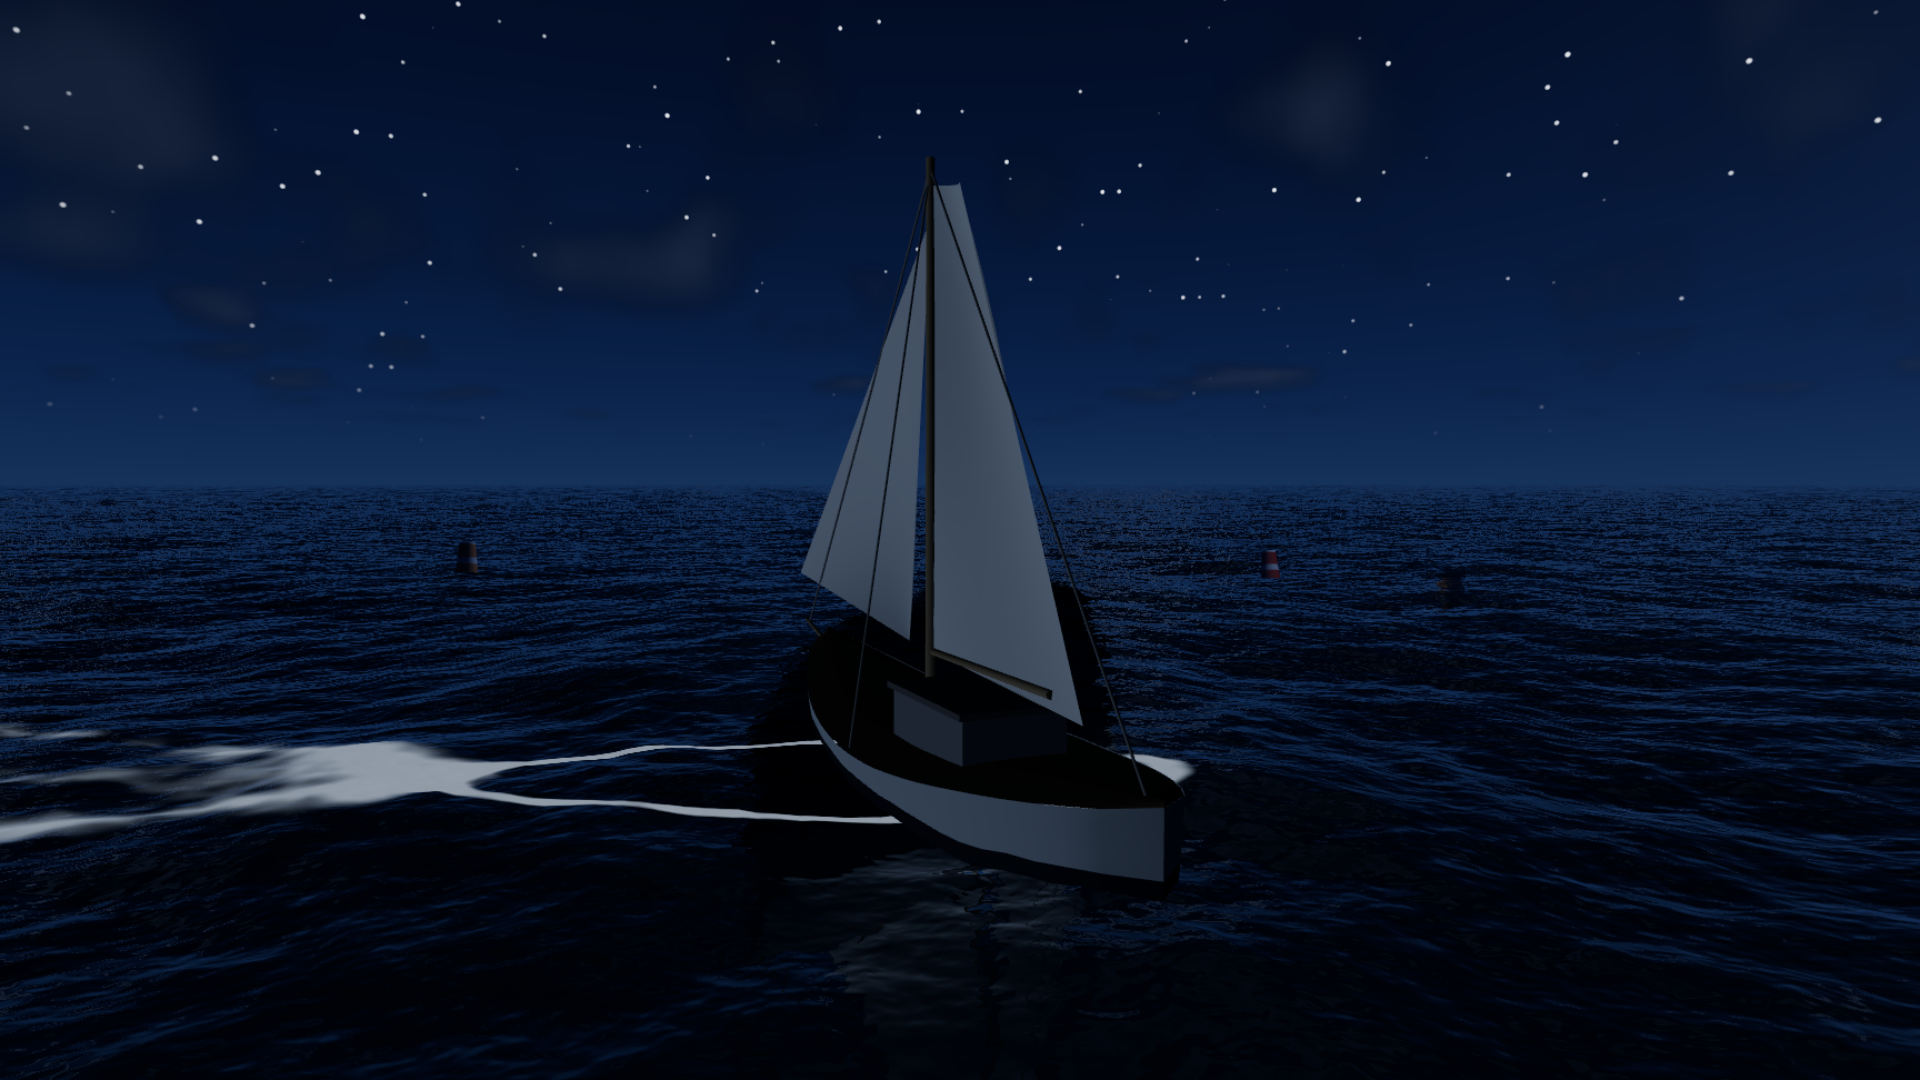
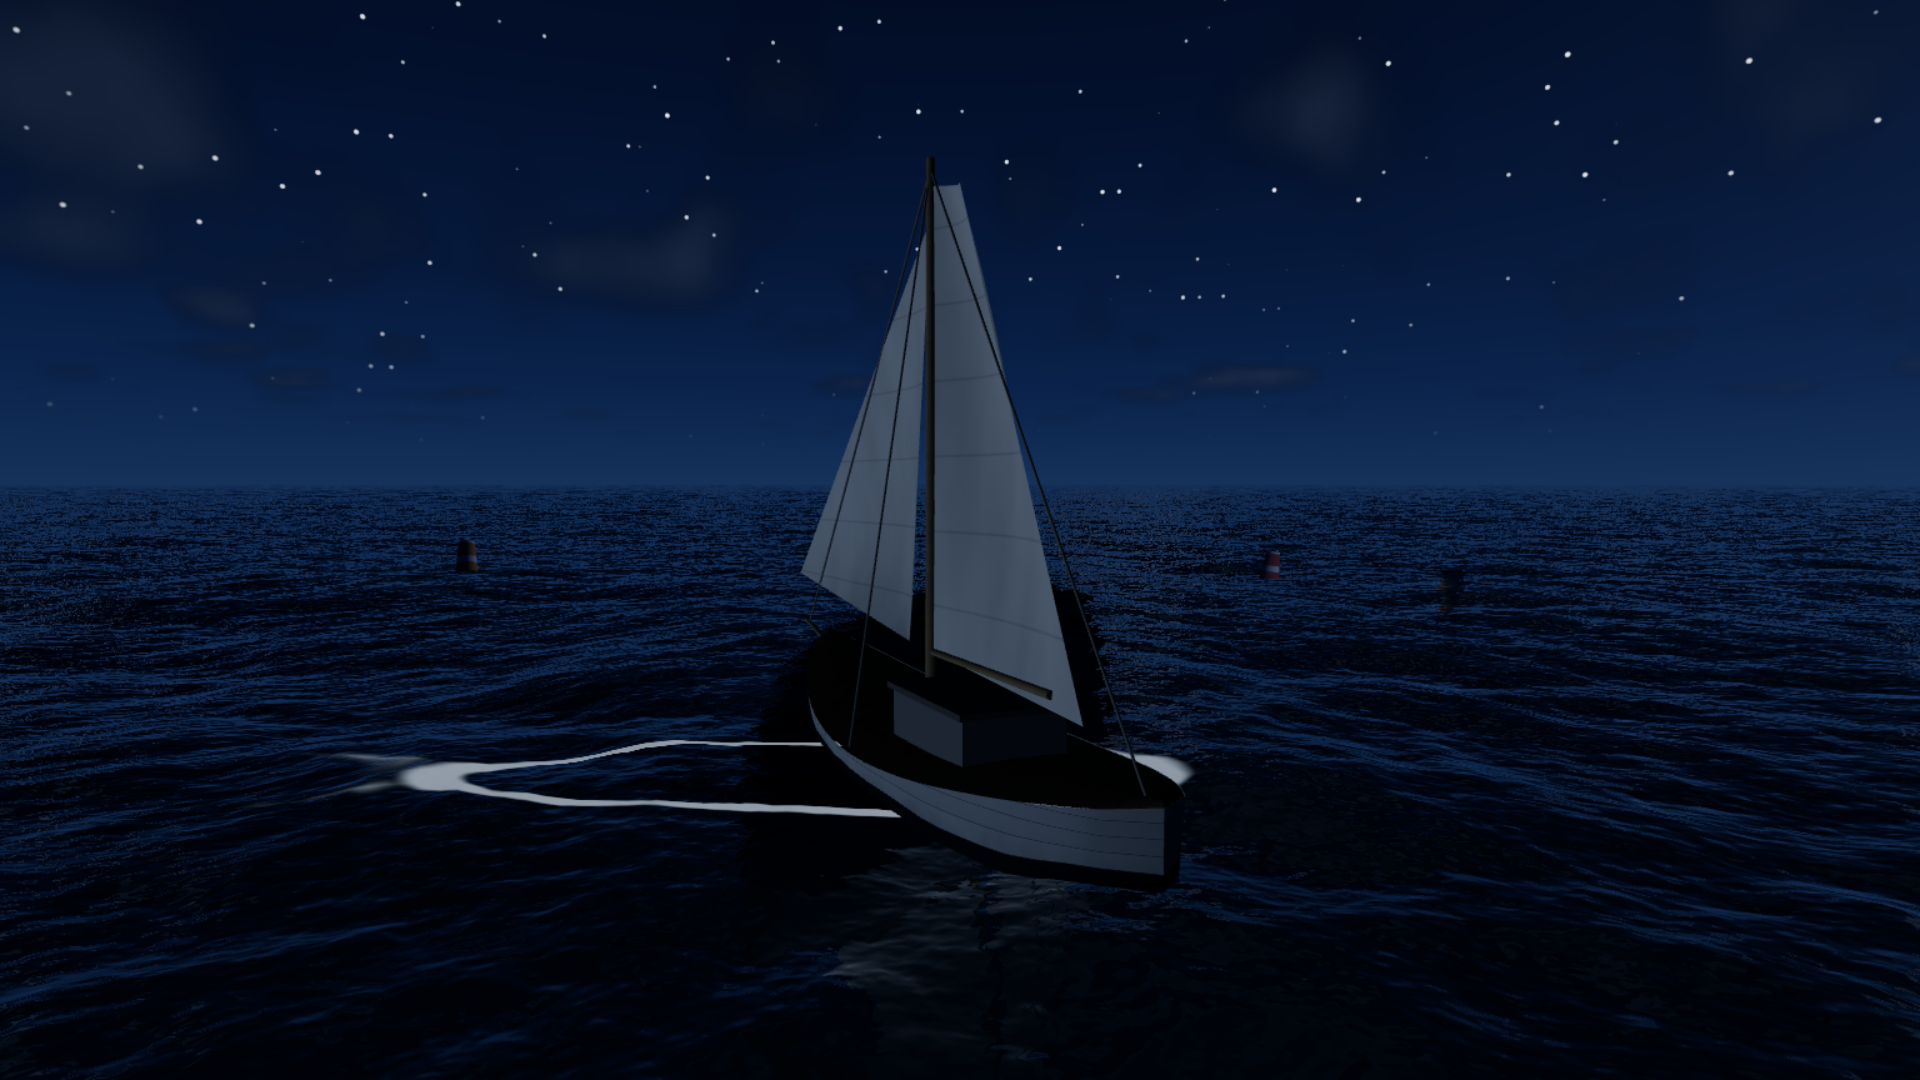
Add procedural planking, waterline grime and sail panels
Vertices now carry a part id, because the surface detail cannot be inferred
from the normal: planking runs fore-and-aft on the topsides and
athwartships on the deck, and a sail's panels run horizontally whichever
way it faces. Getting that backwards is instantly wrong to anyone who has
looked at a boat.

Hull boards are about 22 cm. A seam is a groove, so it draws as a dark line
with a lighter edge where the board above catches the light, and each board
gets its own tone — a hull of identical planks reads as extruded plastic
however good the lighting is. The waterline carries a band of staining,
which is the dirtiest part of any hull and most of what separates a working
boat from a render of one. Sails are seamed into 1.5 m panels with a slack
wrinkle field strongest near the luff. Spars get a little grain.

Also retuned the wake. The first values poured a solid white river down the
arms: the amount fed straight past the foam mask's upper threshold and
saturated, and everything above 0.70 looks identical, so the whole trail
flattened into one edgeless shape. Three knots wants about half of it.

Measured: 1920x1080 at 60 fps on every preset, underwater 57.6, 4K Ultra
59.02 ms. Console errors 0.

diff --git a/src/props/vessel.js b/src/props/vessel.js
@@ -24,8 +24,9 @@ import {
 	MeshBasicNodeMaterial,
 } from 'three/webgpu';
 import {
-	Fn, attribute, cross, dot, faceDirection, float, max, mix, normalLocal, normalize,
-	positionGeometry, saturate, smoothstep, texture, varyingProperty, vec2, vec3, vec4,
+	Fn, abs, attribute, cross, dot, faceDirection, float, floor, fract, max, min, mix,
+	mx_fractal_noise_float, normalLocal, normalize, oneMinus, positionGeometry, saturate, sin,
+	smoothstep, step, texture, varyingProperty, vec2, vec3, vec4,
 } from 'three/tsl';
 
 /* ------------------------------------------------------------------ shapes */
@@ -37,6 +38,16 @@ const DRAFT = 2.05;
 
 /** How far the finished hull is dropped so she floats on her lines. */
 const SINK = 1.35;
+
+/**
+ * Which piece of the boat a vertex belongs to.
+ *
+ * The fragment stage needs this because the surface detail is not the same
+ * everywhere and cannot be inferred from the normal: planking runs fore-and-aft
+ * on the topsides but athwartships on the deck, and a sail's panels run
+ * horizontally regardless of which way it is facing.
+ */
+const PART = { hull: 0, deck: 2, cabin: 3, spar: 4, sail: 5, wire: 6 };
 
 /** How far she may drift from the viewer before wrapping to the other side. */
 const LATTICE = 900;
@@ -86,7 +97,7 @@ class Builder {
 	}
 
 	/** @param {number[]} colour linear RGB */
-	add( geometry, colour, translucent = 0 ) {
+	add( geometry, colour, part = PART.hull ) {
 
 		const base = this.pos.length / 3;
 		const p = geometry.attributes.position.array;
@@ -97,7 +108,7 @@ class Builder {
 		for ( let i = 0; i < p.length / 3; i ++ ) {
 
 			this.col.push( colour[ 0 ], colour[ 1 ], colour[ 2 ] );
-			this.cvs.push( translucent );
+			this.cvs.push( part );
 
 		}
 
@@ -114,7 +125,7 @@ class Builder {
 		g.setAttribute( 'position', new BufferAttribute( new Float32Array( this.pos ), 3 ) );
 		g.setAttribute( 'normal', new BufferAttribute( new Float32Array( this.nrm ), 3 ) );
 		g.setAttribute( 'paint', new BufferAttribute( new Float32Array( this.col ), 3 ) );
-		g.setAttribute( 'canvas', new BufferAttribute( new Float32Array( this.cvs ), 1 ) );
+		g.setAttribute( 'part', new BufferAttribute( new Float32Array( this.cvs ), 1 ) );
 		g.setIndex( this.idx );
 		return g;
 
@@ -197,7 +208,7 @@ function buildGeometry() {
 	};
 
 	// Bottom: keel up to the boot top.
-	b.add( loft( 30, 18, ( t, v ) => section( t, ( v * 2 - 1 ) * bootAt( t ) ) ), [ 0.030, 0.048, 0.062 ] );
+	b.add( loft( 30, 18, ( t, v ) => section( t, ( v * 2 - 1 ) * bootAt( t ) ) ), [ 0.030, 0.048, 0.062 ], PART.hull );
 
 	// Topsides: the two flanks above it.
 	for ( const sign of [ - 1, 1 ] ) {
@@ -207,7 +218,7 @@ function buildGeometry() {
 			const a = bootAt( t );
 			return section( t, sign * ( a + v * ( 1 - a ) ) );
 
-		} ), [ 0.55, 0.56, 0.54 ] );
+		} ), [ 0.55, 0.56, 0.54 ], PART.hull );
 
 	}
 
@@ -222,33 +233,33 @@ function buildGeometry() {
 			zAt( t ),
 		];
 
-	} ), [ 0.30, 0.21, 0.125 ] );
+	} ), [ 0.30, 0.21, 0.125 ], PART.deck );
 
 	// --- cabin
 	const cabin = new BoxGeometry( 2.05, 0.95, 3.2 );
 	cabin.translate( 0, sheer( 0.42 ) + 0.52, - 1.1 );
-	b.add( cabin, [ 0.30, 0.30, 0.29 ] );
+	b.add( cabin, [ 0.30, 0.30, 0.29 ], PART.cabin );
 
 	const roof = new BoxGeometry( 2.25, 0.12, 3.4 );
 	roof.translate( 0, sheer( 0.42 ) + 1.04, - 1.1 );
-	b.add( roof, [ 0.20, 0.19, 0.185 ] );
+	b.add( roof, [ 0.20, 0.19, 0.185 ], PART.cabin );
 
 	// --- mast, boom, bowsprit
 	const deckY = sheer( 0.56 ) + 0.11;
 
 	const mast = new CylinderGeometry( 0.085, 0.13, 11.4, 10 );
 	mast.translate( 0, deckY + 5.7, 1.0 );
-	b.add( mast, [ 0.42, 0.32, 0.20 ] );
+	b.add( mast, [ 0.42, 0.32, 0.20 ], PART.spar );
 
 	const boom = new CylinderGeometry( 0.075, 0.085, 5.0, 8 );
 	boom.rotateX( Math.PI / 2 );
 	boom.translate( 0, deckY + 1.45, - 1.4 );
-	b.add( boom, [ 0.42, 0.32, 0.20 ] );
+	b.add( boom, [ 0.42, 0.32, 0.20 ], PART.spar );
 
 	const sprit = new CylinderGeometry( 0.05, 0.075, 2.8, 8 );
 	sprit.rotateX( Math.PI / 2.32 );
 	sprit.translate( 0, sheer( 0.985 ) - 0.15, LENGTH_FWD + 0.55 );
-	b.add( sprit, [ 0.42, 0.32, 0.20 ] );
+	b.add( sprit, [ 0.42, 0.32, 0.20 ], PART.spar );
 
 	// --- standing rigging. Four wires, each a hair over a centimetre thick.
 	//     They cost almost nothing and they are most of what separates a mast
@@ -274,10 +285,10 @@ function buildGeometry() {
 
 	const WIRE = [ 0.34, 0.33, 0.30 ];
 
-	b.add( strut( masthead, [ 0, sheer( 0.985 ) + 0.15, LENGTH_FWD + 1.6 ], 0.028 ), WIRE );   // forestay
-	b.add( strut( masthead, [ 0, sheer( 0.02 ) + 0.05, - LENGTH_AFT + 0.4 ], 0.026 ), WIRE );  // backstay
-	b.add( strut( masthead, [ halfBeam( 0.5 ) * 0.94, sheer( 0.5 ), 0.2 ], 0.024 ), WIRE );    // shrouds
-	b.add( strut( masthead, [ - halfBeam( 0.5 ) * 0.94, sheer( 0.5 ), 0.2 ], 0.024 ), WIRE );
+	b.add( strut( masthead, [ 0, sheer( 0.985 ) + 0.15, LENGTH_FWD + 1.6 ], 0.028 ), WIRE, PART.wire );   // forestay
+	b.add( strut( masthead, [ 0, sheer( 0.02 ) + 0.05, - LENGTH_AFT + 0.4 ], 0.026 ), WIRE, PART.wire );  // backstay
+	b.add( strut( masthead, [ halfBeam( 0.5 ) * 0.94, sheer( 0.5 ), 0.2 ], 0.024 ), WIRE, PART.wire );    // shrouds
+	b.add( strut( masthead, [ - halfBeam( 0.5 ) * 0.94, sheer( 0.5 ), 0.2 ], 0.024 ), WIRE, PART.wire );
 
 	// --- mainsail: a cambered quad from the mast to the boom end. The belly is
 	//     the whole point; a flat sail reads as cardboard.
@@ -292,7 +303,7 @@ function buildGeometry() {
 
 		return [ belly, luffY - v * 0.30, z ];
 
-	} ), [ 0.80, 0.78, 0.72 ], 1 );
+	} ), [ 0.80, 0.78, 0.72 ], PART.sail );
 
 	// --- jib
 	b.add( loft( 8, 8, ( t, v ) => {
@@ -314,7 +325,7 @@ function buildGeometry() {
 			lz + ( clew[ 2 ] - lz ) * v,
 		];
 
-	} ), [ 0.78, 0.76, 0.71 ], 1 );
+	} ), [ 0.78, 0.76, 0.71 ], PART.sail );
 
 	const g = b.build();
 
@@ -392,7 +403,8 @@ export class Vessel {
 		const vNormal = varyingProperty( 'vec3', 'vVesNormal' );
 		const vPaint = varyingProperty( 'vec3', 'vVesPaint' );
 		const vLocalY = varyingProperty( 'float', 'vVesLocalY' );
-		const vTranslucent = varyingProperty( 'float', 'vVesTranslucent' );
+		const vPart = varyingProperty( 'float', 'vVesPart' );
+		const vLocal = varyingProperty( 'vec3', 'vVesLocal' );
 
 		material.positionNode = Fn( () => {
 
@@ -468,7 +480,8 @@ export class Vessel {
 				tangent.mul( normalLocal.x ).add( normal.mul( normalLocal.y ) ).add( bitangent.mul( normalLocal.z ) )
 			) );
 			vPaint.assign( attribute( 'paint', 'vec3' ) );
-			vTranslucent.assign( attribute( 'canvas', 'float' ) );
+			vPart.assign( attribute( 'part', 'float' ) );
+			vLocal.assign( p );
 			vLocalY.assign( p.y );
 
 			return world;
@@ -484,6 +497,74 @@ export class Vessel {
 			const n = normalize( vNormal ).mul( faceDirection ).toVar( 'vesNorm' );
 
 			const paint = vPaint.toVar( 'vesPaint' );
+
+			/* --- surface detail ------------------------------------------ */
+
+			// Local coordinates, with the waterline at y = 0 — the sink is baked
+			// into the geometry, so this is directly usable as "height above the
+			// water" for the wear band below.
+			const L = vLocal.toVar( 'vesLocal' );
+			const part = vPart.toVar( 'vesPartId' );
+
+			const isSail = step( 4.5, part ).mul( step( part, float( 5.5 ) ) ).toVar( 'isSail' );
+			const isDeck = step( 1.5, part ).mul( step( part, float( 2.5 ) ) ).toVar( 'isDeck' );
+			const isHull = step( part, float( 0.5 ) ).toVar( 'isHull' );
+
+			// A seam is a groove, so it reads as a thin dark line plus a lighter
+			// edge where the plank above it catches the light. `axis` selects which
+			// way the boards run: fore-and-aft on the topsides, athwartships on the
+			// deck. Getting that backwards is instantly wrong to anyone who has
+			// looked at a boat, and it is not something a normal can tell you.
+			const seamAt = ( axis, pitch, width ) => {
+
+				const f = fract( axis.mul( pitch ) ).toVar();
+				const d = min( f, oneMinus( f ) ).toVar();
+				return oneMinus( smoothstep( 0.0, width, d ) );
+
+			};
+
+			// Per-board tone. Timber is not uniform, and a hull with identical
+			// planks reads as extruded plastic however good the lighting is.
+			const boardTone = ( axis, pitch ) => {
+
+				const idx = floor( axis.mul( pitch ) );
+				return fract( sin( idx.mul( 91.37 ) ).mul( 4173.11 ) ).sub( 0.5 );
+
+			};
+
+			const detail = float( 1.0 ).toVar( 'vesDetail' );
+
+			// Hull: boards run fore-and-aft, so they band in height. ~22 cm.
+			const hullSeam = seamAt( L.y, 4.5, 0.055 ).mul( isHull );
+			detail.mulAssign( oneMinus( hullSeam.mul( 0.42 ) ) );
+			detail.addAssign( boardTone( L.y, 4.5 ).mul( 0.075 ).mul( isHull ) );
+
+			// Deck: boards run fore-and-aft too, so they band across the beam.
+			const deckSeam = seamAt( L.x, 3.4, 0.070 ).mul( isDeck );
+			detail.mulAssign( oneMinus( deckSeam.mul( 0.50 ) ) );
+			detail.addAssign( boardTone( L.x, 3.4 ).mul( 0.10 ).mul( isDeck ) );
+
+			// Paint that has spent its life at the waterline. A boot stripe is the
+			// dirtiest part of any hull, and the band of staining just above it is
+			// most of what separates a working boat from a render of one.
+			const grime = mx_fractal_noise_float( vec3( L.xz.mul( 1.6 ), L.y.mul( 2.2 ) ), 3, 2.0, 0.55 )
+				.mul( 0.5 ).add( 0.5 ).toVar( 'vesGrime' );
+			const band = oneMinus( smoothstep( 0.0, 0.55, abs( L.y.sub( 0.10 ) ) ) ).toVar( 'vesBand' );
+			detail.mulAssign( oneMinus( band.mul( grime ).mul( 0.34 ).mul( isHull ) ) );
+
+			// Sailcloth: panels seamed horizontally, ~1.5 m, plus a slack wrinkle
+			// field that is strongest near the luff where the cloth is gathered.
+			const panel = seamAt( L.y, 0.66, 0.030 ).mul( isSail );
+			detail.mulAssign( oneMinus( panel.mul( 0.16 ) ) );
+
+			const wrinkle = mx_fractal_noise_float( vec3( L.xz.mul( 0.9 ), L.y.mul( 0.35 ) ), 3, 2.0, 0.5 );
+			detail.addAssign( wrinkle.mul( 0.085 ).mul( isSail ) );
+
+			// Spars: a little grain, so varnished wood is not a plastic tube.
+			const spar = step( 3.5, part ).mul( step( part, float( 4.5 ) ) );
+			detail.addAssign( boardTone( L.y.add( L.z ), 7.0 ).mul( 0.10 ).mul( spar ) );
+
+			paint.mulAssign( max( detail, float( 0.35 ) ) );
 
 			// Anything below the waterline is seen through the water column.
 			const submerged = smoothstep( 0.10, - 0.55, vLocalY ).toVar( 'vesSub' );
@@ -520,7 +601,7 @@ export class Vessel {
 			// into silhouette. Without this the leeward side of every sail is a flat
 			// dark shape, which is the single most obvious way canvas reads as sheet
 			// metal.
-			const through = saturate( dot( n.negate(), u.sunDir ) ).mul( vTranslucent );
+			const through = saturate( dot( n.negate(), u.sunDir ) ).mul( isSail );
 			lit.addAssign( paint.mul( u.sunColor ).mul( through.mul( u.sunIntensity ).mul( 0.85 ) ) );
 
 			return vec4( max( lit, vec3( 0.0 ) ), 1.0 );

diff --git a/src/ocean/material.js b/src/ocean/material.js
@@ -445,11 +445,15 @@ export function createOceanMaterial( env, field, sky, opts = {} ) {
 			// 19.5 degrees for any displacement hull at any speed, which is why a
 			// wake is recognisable at all. They are the shape; the centre trail is
 			// just churn, so it spreads and fades much faster.
-			const arm = exp( abs( across.sub( astern.mul( 0.354 ) ) ).mul( - 1.15 ) );
-			const trail = exp( across.div( astern.mul( 0.16 ).add( 1.6 ) ).mul( - 1.5 ) );
+			const arm = exp( abs( across.sub( astern.mul( 0.354 ) ) ).mul( - 1.9 ) );
+			const trail = exp( across.div( astern.mul( 0.16 ).add( 1.6 ) ).mul( - 2.2 ) );
 
-			const decay = exp( astern.mul( - 0.021 ) ).mul( smoothstep( 0.0, 2.5, astern ) );
-			const wake = arm.mul( 0.80 ).add( trail.mul( 0.55 ) ).mul( decay ).mul( u.vesselSpeed ).toVar( 'wake' );
+			// Three knots is a modest wake. The first pass poured a solid white
+			// river down the arms because the amount fed straight past the foam
+			// mask's upper threshold and saturated — everything above 0.70 looks
+			// identical, so the whole trail flattened into one shape with no edge.
+			const decay = exp( astern.mul( - 0.045 ) ).mul( smoothstep( 0.0, 3.0, astern ) );
+			const wake = arm.mul( 0.42 ).add( trail.mul( 0.26 ) ).mul( decay ).mul( u.vesselSpeed ).toVar( 'wake' );
 
 			foamRaw.assign( max( foamRaw, collar.add( wake ).mul( torn ).mul( 1.45 ) ) );
 

diff --git a/README.md b/README.md
@@ -47,6 +47,9 @@ WebGPU를 우선 사용하고, 사용할 수 없으면 같은 코드베이스가
   모델도 텍스처도 없다. 15 m 선체는 자기 길이보다 짧은 파도를 따라갈 수 없으므로 가장 긴
   캐스케이드만 샘플하고, **수면 아래 부분만 자기 위치의 수면 높이에 맞춰 휜다** — 강체로
   두면 선체 밑으로 하늘이 보인다. 수면 쪽에는 흘수선 포말 칼라와 물기둥 그림자가 붙는다.
+- **표면 디테일** — 선체 판재는 뱃전에서 앞뒤로, 갑판 판재는 뱃전을 가로질러 흐른다.
+  이건 법선으로는 알 수 없어서 정점마다 부위 ID를 실어 보낸다. 흘수선에는 때가 앉아 있고,
+  돛은 약 1.5 m 패널로 이어 붙였으며 러프 쪽에 주름이 잡힌다.
 - **항적** — 배는 약 3노트로 항주한다. 변위선체의 Kelvin 각(약 19.5°)은 속도와 무관하므로
   두 팔은 고정 각으로 뻗고, 가운데 교란만 퍼지며 빨리 사라진다. 항적이 알아볼 수 있는 형태인
   이유가 그 각도다.
